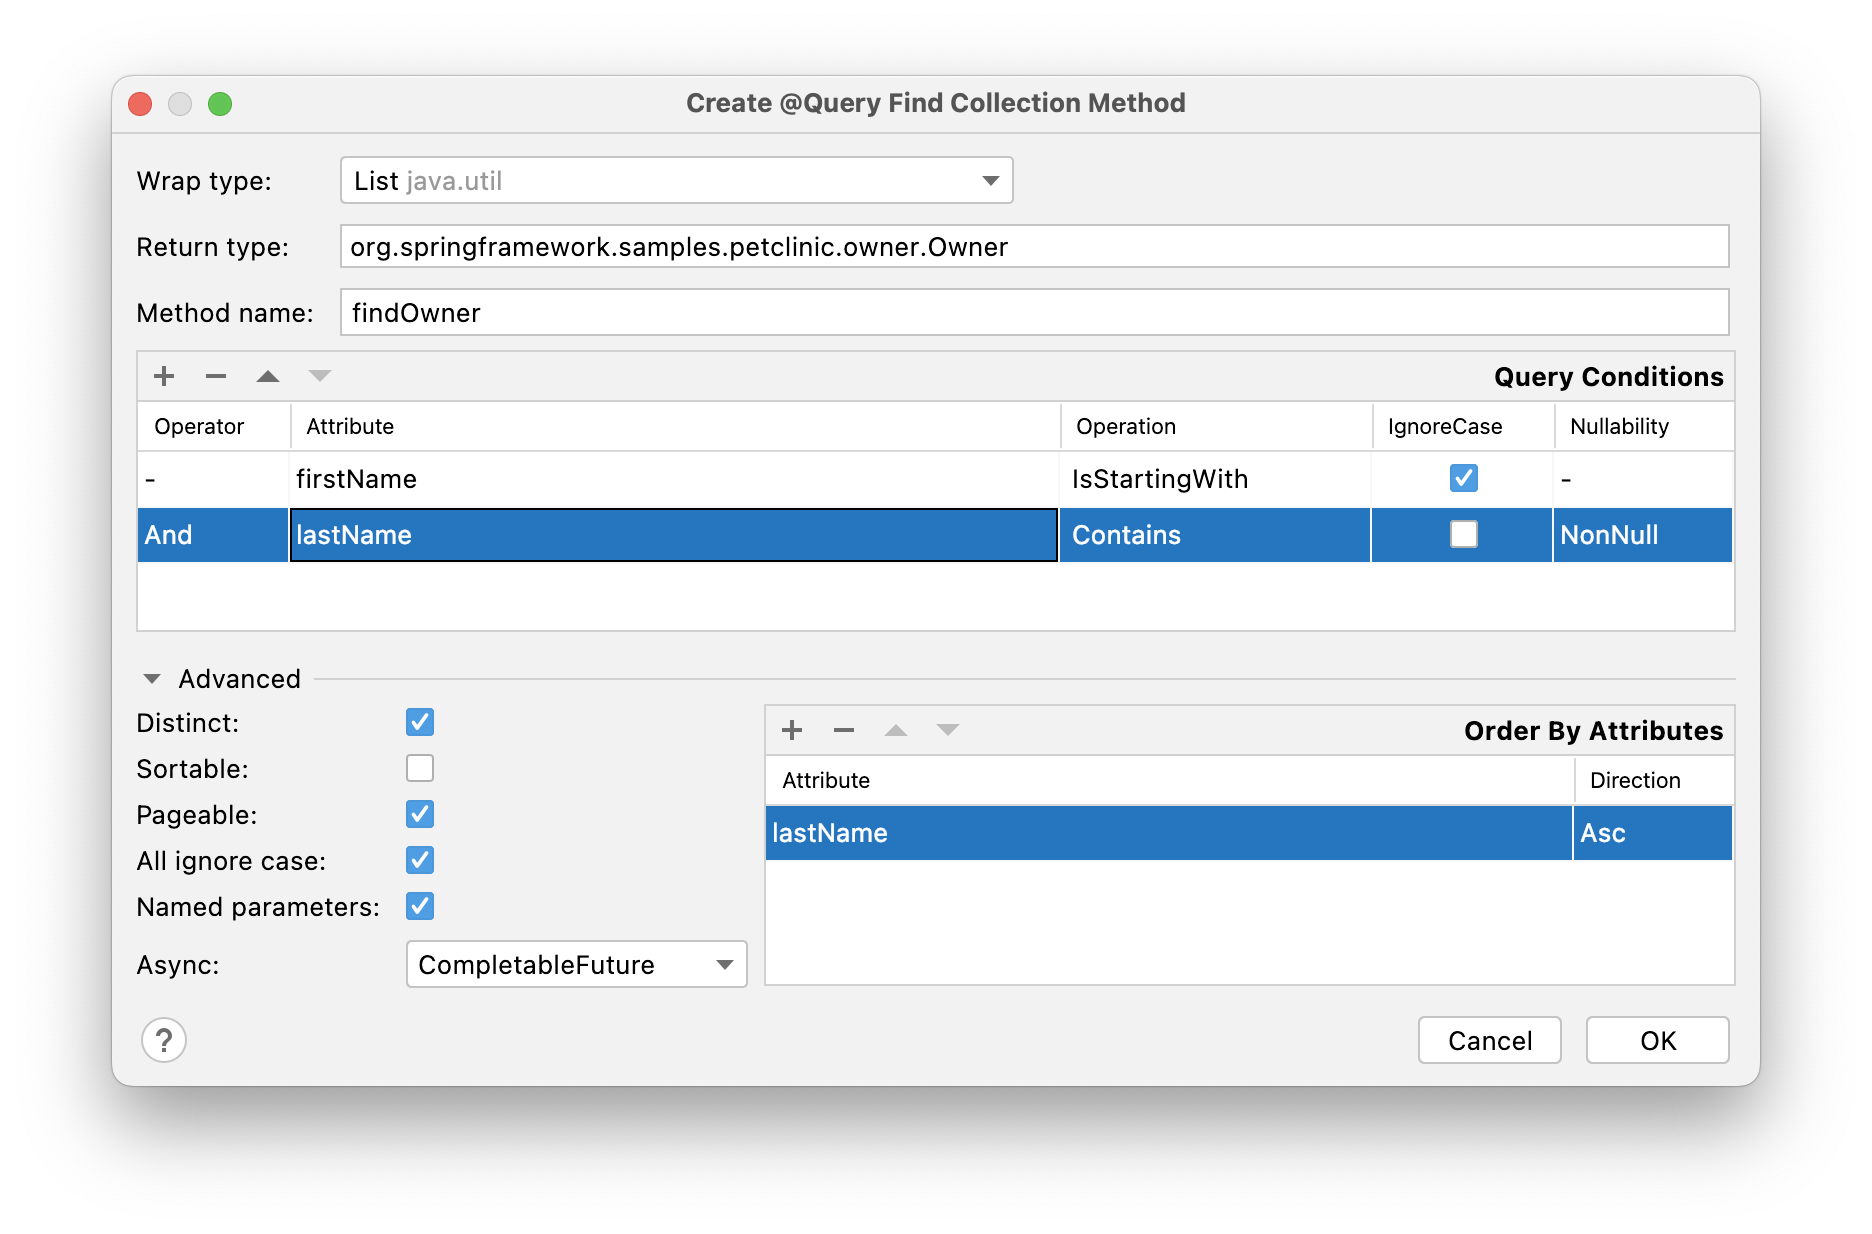
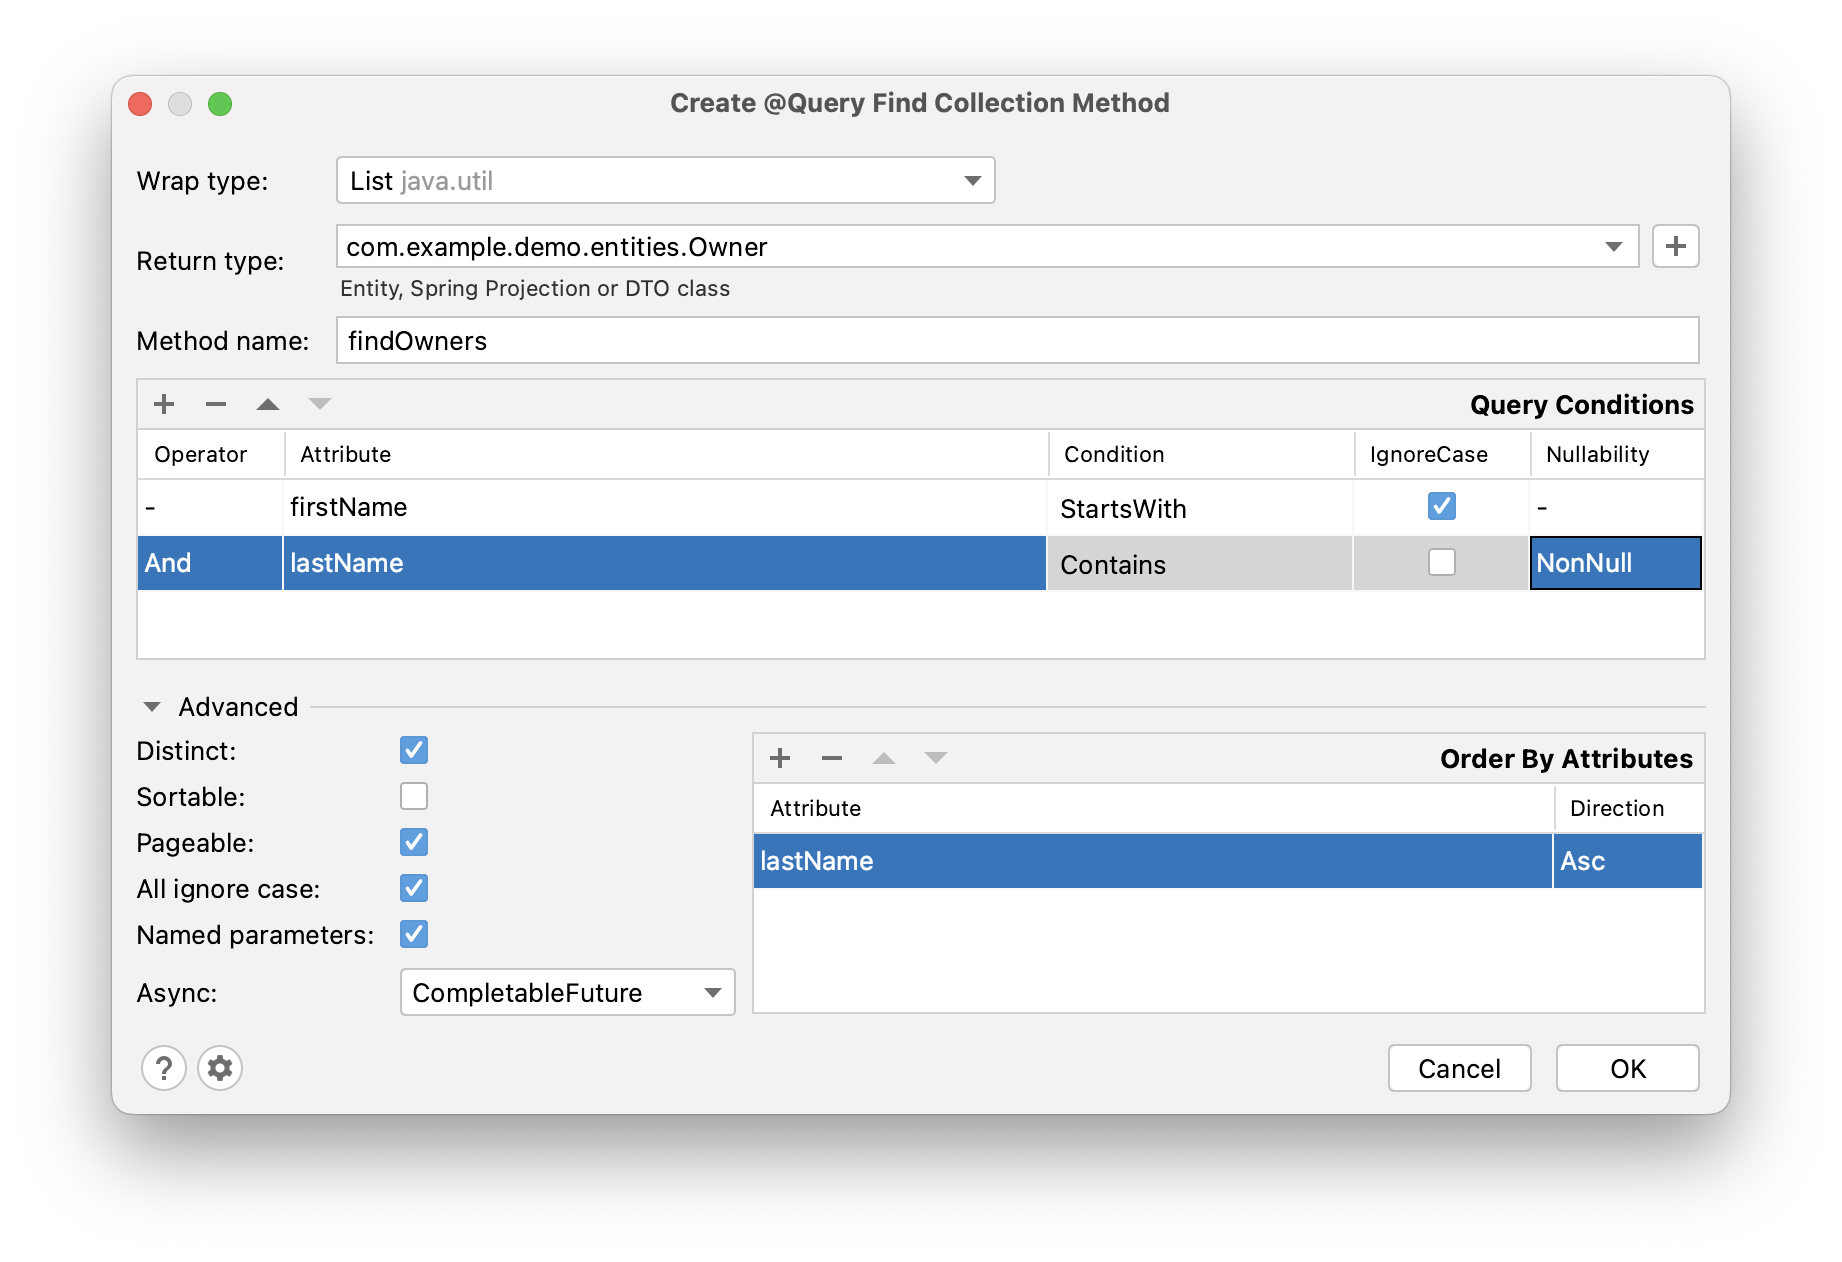
Query/Method wizard UI changes #88

diff --git a/spring-data/spring-data.md b/spring-data/spring-data.md
@@ -39,40 +39,50 @@ When we have a lot of entities, creating Spring Data repositories one by one bec
 
 For the most efficient navigation in the project, JPA Buddy groups all repositories for each entity. It doesn't matter if the repositories for the entity are located in different or in the same project package. All repositories related to the entity will be displayed in the "Repositories" section. From here, you can quickly move to the repository implementation or create a new one.  
 
-![jpa_structure_repository](img/jpa_structure_repository.jpeg)
+![jpa_structure_repository](img/jpa_structure_repository.png)
 
 ## Queries/Methods Generation 
 
-Spring Data provides the possibility to define a query with the `@`Query annotation. To write them accurately and in less time, use JPA Palette. Choose one of the following types of queries and configure them with the convenient UI. 
+Spring Data provides the possibility to define a query with the `@Query` annotation. To write them accurately and in less time, use JPA Palette. Choose one of the following types of queries and configure them with the convenient UI. 
 
 ![jpa_palette_query](img/jpa_palette_query.jpeg)
 
 ### Example 
 
-<div class="note">All that will be considered in the example below can be generated not only as a query but also as a method. The difference is that you can configure the method prefix in the Advance panel, and you can&rsquo;t specify the name for it, because it will be generated automatically in accordance to <a href="https://docs.spring.io/spring-data/jpa/docs/current/reference/html/#jpa.query-methods.query-creation">Naming Conventions for Query.</a></div>
+<div class="note">All that we will consider in the example below can be generated as `@Query` and as a derived query method. The only difference is that for the derived query method, you can't specify its name because it will be generated automatically according to [Naming Conventions for Query.](https://docs.spring.io/spring-data/jpa/docs/current/reference/html/#jpa.query-methods.query-creation)
+</div>
 
-Let's take a look at the example with Find Collection query creation. 
-
-Let's start from the top of the window. You can define one of the possible wrap types for collection, return value and you can also define the name for the method, but if you rest it empty, the name will be generated automatically following [Naming Conventions for Query.](https://docs.spring.io/spring-data/jpa/docs/current/reference/html/#jpa.query-methods.query-creation)  
-
-The middle of the window contains the table for the query condition configuration. 
-
-At the bottom of the window you can specify specific for each query parameters, such as: whether the parameters will be named or not, whether to add the `@`Async annotation and so on. Here you can also add fields by which the result of the query will be ordered. 
+Let's look at an example of creating a Find Collection Query.
 
 ![create_query_find_collection](img/create_query_find_collection.png)
 
-For the configuration below, the following query is generated: 
+At the top of the window, you can define wrap type for collection and query return type. Moreover, JPA Buddy allows you to generate new [Projection interface](https://www.jpa-buddy.com/documentation/spring-data/#projection-creation) or [DTO class](https://www.jpa-buddy.com/documentation/dto-generator/) right from this window (just click on the `+` button).
+
+You can also specify the method name. Still, if you rest it empty, the name will be generated automatically following [Naming Conventions for Query.](https://docs.spring.io/spring-data/jpa/docs/current/reference/html/#jpa.query-methods.query-creation) 
+
+The middle of the window contains the table for the query conditions. 
+
+At the bottom of the window, you can specify:
+
+* whether the parameters will be named or not;
+* whether to use `Pageable` parameter or not;
+* and so on. 
+
+Finally, you can specify fields by which the query result will be ordered.
+
+For the above configuration, the following query will be generated:
 
 ```java
-@Query("select distinct o from Owner o " + 
-       "where upper(o.firstName) like upper(concat(:firstName, '%')) " + 
-       "and upper(o.lastName) like upper(concat('%', :lastName, '%')) " + 
-       "order by o.lastName") 
-@Async 
-CompletableFuture<List<Owner>> findOwner(
-  @Param("firstName") String firstName,
-  @Param("lastName") @NonNull String lastName,
-  Pageable pageable); 
+@Query("""
+        select distinct o from Owner o
+        where upper(o.firstName) like upper(concat(:firstName, '%'))
+        and upper(o.lastName) like upper(concat('%', :lastName, '%'))
+        order by o.lastName
+        """)
+    @Async
+    CompletableFuture<List<Owner>> findOwners(@Param("firstName") String firstName,
+                                              @Param("lastName") @NonNull String lastName,
+                                              Pageable pageable);
 ```
 
 ### Entity Intention 
@@ -114,7 +124,7 @@ The EntityGraph feature has been introduced in JPA 2.1, it has been one of the m
 
 ### Async
 
-Spring Data JPA provides the possibility to run repository queries asynchronously. The correct way to make asynchronous query is not only to add `@`Async annotation, but also to change the return type to one of the following: 
+Spring Data JPA provides the possibility to run repository queries asynchronously. The correct way to make asynchronous query is not only to add `@Async` annotation, but also to change the return type to one of the following: 
 
 * Future<ClassName>
 * CompletableFuture<ClassName> 
